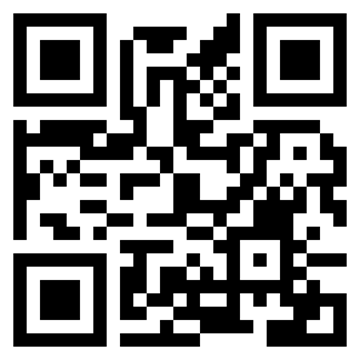
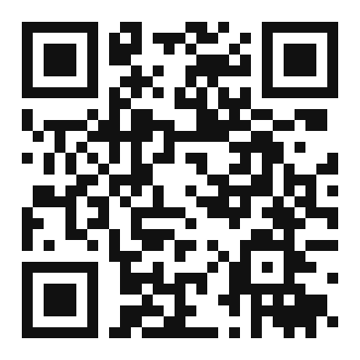
QR을 기기별 연결(/get)로: 안드로이드는 플레이 스토어

diff --git a/app/_layout.tsx b/app/_layout.tsx
@@ -43,7 +43,7 @@ function DesktopShell({ children }: { children: React.ReactNode }) {
       <View style={{ height: 64, backgroundColor: '#fff', borderBottomWidth: 1, borderBottomColor: C.line, flexDirection: 'row', alignItems: 'center', paddingHorizontal: 32, gap: 10 }}>
         <Image source={require('../assets/img/app-mark.png')} style={{ width: 28, height: 28, borderRadius: 8 }} />
         <T style={{ fontFamily: F.extra, fontSize: 17 }}>키오런</T>
-        <T v="cap" style={{ marginLeft: 6 }}>부모님 1:1 과외</T>
+        <T v="cap" style={{ marginLeft: 6 }}>부모님 디지털 1:1 방문 수업</T>
         <View style={{ flex: 1 }} />
         <Pressable onPress={() => open('https://kiolearn.co.kr/lesson')}><T v="sub" style={{ fontFamily: F.semibold, marginRight: 22 }}>혼자 해 보는 수업</T></Pressable>
         <Pressable onPress={() => open('https://kiolearn.co.kr/teach')}><T v="sub" style={{ fontFamily: F.semibold, marginRight: 22 }}>강사 지원</T></Pressable>
@@ -56,8 +56,8 @@ function DesktopShell({ children }: { children: React.ReactNode }) {
           <View style={{ backgroundColor: '#fff', borderRadius: 24, padding: 18, flexDirection: 'row', alignItems: 'center', gap: 16, borderWidth: 1, borderColor: C.line, marginTop: 8 }}>
             <Image source={require('../assets/img/qr-app.png')} style={{ width: 108, height: 108, borderRadius: 10 }} />
             <View style={{ flex: 1 }}>
-              <T v="h">폰으로 열기</T>
-              <T v="cap" style={{ marginTop: 4 }}>카메라로 QR을 찍으면 같은 화면이 폰에서 열려요. 설치 없이 바로 쓸 수 있고, 앱 스토어 버전은 심사 중이에요.</T>
+              <T v="h">폰에서 앱 받기</T>
+              <T v="cap" style={{ marginTop: 4 }}>카메라로 QR을 찍으면 안드로이드는 구글 플레이로 연결돼요. 아이폰은 지금 웹으로 바로 쓸 수 있어요.</T>
             </View>
           </View>
           <View style={{ flexDirection: 'row', gap: 8, marginTop: 4 }}>
